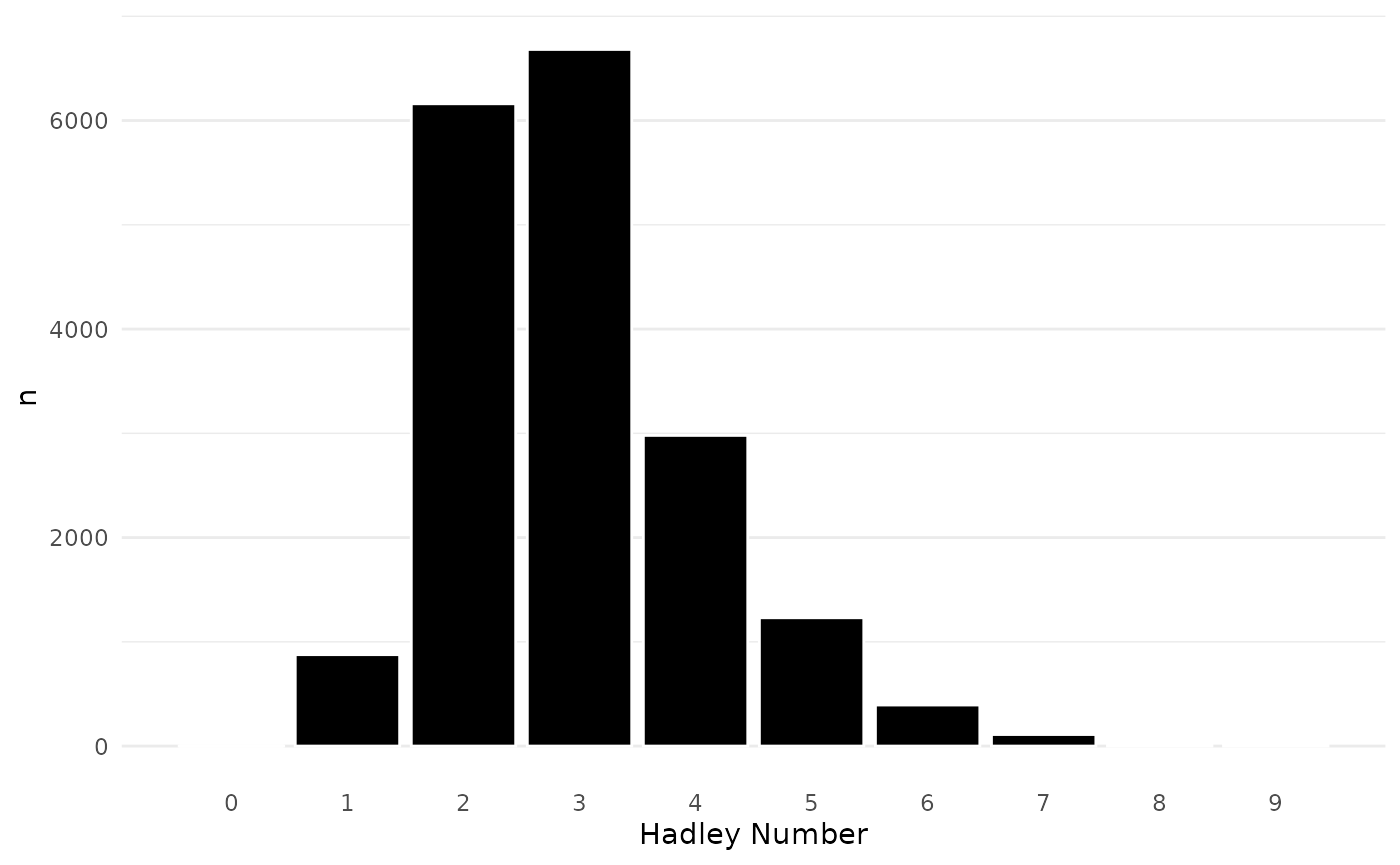
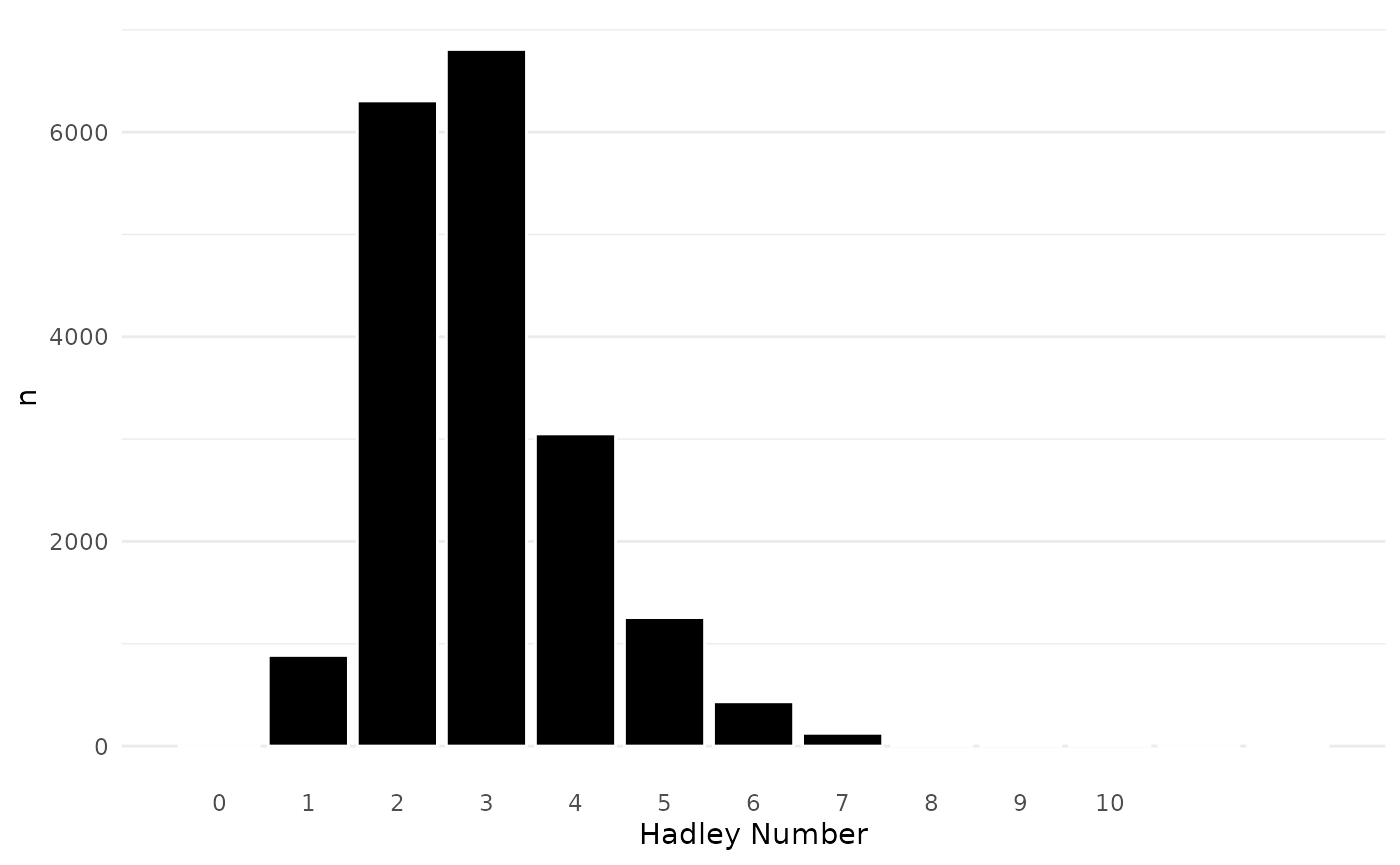
Deploying to gh-pages from @ Bisaloo/authoritative@ba7a91681df0eace3cf0e78e8ec6dfd6ce44fa3e 🚀

diff --git a/articles/six-degrees-replication.html b/articles/six-degrees-replication.html
@@ -84,8 +84,8 @@ degrees of Hadley Wickham: The CRAN co-authorship network”</a> using the
 <span><span class="kw"><a href="https://rdrr.io/r/base/library.html" class="external-link">library</a></span><span class="op">(</span><span class="va"><a href="https://tidyverse.tidyverse.org" class="external-link">tidyverse</a></span><span class="op">)</span></span>
 <span><span class="co">#&gt; ── <span style="font-weight: bold;">Attaching core tidyverse packages</span> ──────────────────────── tidyverse 2.0.0 ──</span></span>
 <span><span class="co">#&gt; <span style="color: #00BB00;">✔</span> <span style="color: #0000BB;">dplyr    </span> 1.1.4     <span style="color: #00BB00;">✔</span> <span style="color: #0000BB;">readr    </span> 2.1.5</span></span>
-<span><span class="co">#&gt; <span style="color: #00BB00;">✔</span> <span style="color: #0000BB;">forcats  </span> 1.0.0     <span style="color: #00BB00;">✔</span> <span style="color: #0000BB;">stringr  </span> 1.5.1</span></span>
-<span><span class="co">#&gt; <span style="color: #00BB00;">✔</span> <span style="color: #0000BB;">ggplot2  </span> 3.5.2     <span style="color: #00BB00;">✔</span> <span style="color: #0000BB;">tibble   </span> 3.3.0</span></span>
+<span><span class="co">#&gt; <span style="color: #00BB00;">✔</span> <span style="color: #0000BB;">forcats  </span> 1.0.1     <span style="color: #00BB00;">✔</span> <span style="color: #0000BB;">stringr  </span> 1.5.2</span></span>
+<span><span class="co">#&gt; <span style="color: #00BB00;">✔</span> <span style="color: #0000BB;">ggplot2  </span> 4.0.0     <span style="color: #00BB00;">✔</span> <span style="color: #0000BB;">tibble   </span> 3.3.0</span></span>
 <span><span class="co">#&gt; <span style="color: #00BB00;">✔</span> <span style="color: #0000BB;">lubridate</span> 1.9.4     <span style="color: #00BB00;">✔</span> <span style="color: #0000BB;">tidyr    </span> 1.3.1</span></span>
 <span><span class="co">#&gt; <span style="color: #00BB00;">✔</span> <span style="color: #0000BB;">purrr    </span> 1.1.0     </span></span>
 <span><span class="co">#&gt; ── <span style="font-weight: bold;">Conflicts</span> ────────────────────────────────────────── tidyverse_conflicts() ──</span></span>
@@ -157,39 +157,39 @@ degrees of Hadley Wickham: The CRAN co-authorship network”</a> using the
 <span><span class="va">B</span> <span class="op">&lt;-</span> <span class="fu">Matrix</span><span class="fu">::</span><span class="fu">t</span><span class="op">(</span><span class="va">A</span><span class="op">)</span> <span class="op"><a href="https://rdrr.io/r/base/matmult.html" class="external-link">%*%</a></span> <span class="va">A</span></span>
 <span><span class="va">auth_auth_net</span> <span class="op">&lt;-</span> <span class="fu"><a href="https://r.igraph.org/reference/graph_from_adjacency_matrix.html" class="external-link">graph_from_adjacency_matrix</a></span><span class="op">(</span><span class="va">B</span>, <span class="st">"undirected"</span>, diag <span class="op">=</span> <span class="cn">FALSE</span>, weighted <span class="op">=</span> <span class="cn">TRUE</span><span class="op">)</span></span>
 <span><span class="va">auth_auth_net</span></span>
-<span><span class="co">#&gt; IGRAPH 51de6b0 UNW- 29486 167611 -- </span></span>
+<span><span class="co">#&gt; IGRAPH 5c4ae5d UNW- 30141 169777 -- </span></span>
 <span><span class="co">#&gt; + attr: name (v/c), weight (e/n)</span></span>
-<span><span class="co">#&gt; + edges from 51de6b0 (vertex names):</span></span>
-<span><span class="co">#&gt;  [1] Martin Bladt    --Christian Furrer    Martin Bladt    --Alexander J Mcneil </span></span>
-<span><span class="co">#&gt;  [3] Martin Bladt    --Jorge Yslas         Martin Bladt    --Alaric Muller      </span></span>
-<span><span class="co">#&gt;  [5] Paul R Rosenbaum--Dylan Small         Paul R Rosenbaum--Ruth Heller        </span></span>
-<span><span class="co">#&gt;  [7] Paul R Rosenbaum--Marieke Stolte      Paul R Rosenbaum--Luke Miratrix      </span></span>
-<span><span class="co">#&gt;  [9] Paul R Rosenbaum--Luke Keele          Paul R Rosenbaum--Sam Pimentel       </span></span>
-<span><span class="co">#&gt; [11] Sigbert Klinke  --Jaroslav Myslivec   Sigbert Klinke  --Robert King        </span></span>
-<span><span class="co">#&gt; [13] Sigbert Klinke  --Benjamin Dean       Sigbert Klinke  --Paul Van Staden    </span></span>
-<span><span class="co">#&gt; [15] Sigbert Klinke  --Jekaterina Zukovska</span></span>
+<span><span class="co">#&gt; + edges from 5c4ae5d (vertex names):</span></span>
+<span><span class="co">#&gt;  [1] Martin Bladt    --Christian Furrer        </span></span>
+<span><span class="co">#&gt;  [2] Martin Bladt    --Alexander J Mcneil      </span></span>
+<span><span class="co">#&gt;  [3] Martin Bladt    --Jorge Yslas             </span></span>
+<span><span class="co">#&gt;  [4] Martin Bladt    --Alaric Muller           </span></span>
+<span><span class="co">#&gt;  [5] Paul R Rosenbaum--Dylan Small             </span></span>
+<span><span class="co">#&gt;  [6] Paul R Rosenbaum--Ruth Heller             </span></span>
+<span><span class="co">#&gt;  [7] Paul R Rosenbaum--Marieke Stolte          </span></span>
+<span><span class="co">#&gt;  [8] Paul R Rosenbaum--Luke Miratrix           </span></span>
 <span><span class="co">#&gt; + ... omitted several edges</span></span></code></pre></div>
 <div class="sourceCode" id="cb5"><pre class="downlit sourceCode r">
 <code class="sourceCode R"><span><span class="va">comps_cran</span> <span class="op">&lt;-</span> <span class="fu"><a href="https://r.igraph.org/reference/components.html" class="external-link">components</a></span><span class="op">(</span><span class="va">auth_auth_net</span><span class="op">)</span></span>
 <span><span class="va">comps_cran</span><span class="op">$</span><span class="va">no</span></span>
-<span><span class="co">#&gt; [1] 4374</span></span></code></pre></div>
+<span><span class="co">#&gt; [1] 4492</span></span></code></pre></div>
 <div class="sourceCode" id="cb6"><pre class="downlit sourceCode r">
 <code class="sourceCode R"><span><span class="va">auth_auth_net_largest</span> <span class="op">&lt;-</span> <span class="fu"><a href="https://r.igraph.org/reference/components.html" class="external-link">largest_component</a></span><span class="op">(</span><span class="va">auth_auth_net</span><span class="op">)</span></span>
 <span><span class="va">auth_auth_net_largest</span></span>
-<span><span class="co">#&gt; IGRAPH dc9e2a8 UNW- 18454 152313 -- </span></span>
+<span><span class="co">#&gt; IGRAPH 1eaac9b UNW- 18895 154353 -- </span></span>
 <span><span class="co">#&gt; + attr: name (v/c), weight (e/n)</span></span>
-<span><span class="co">#&gt; + edges from dc9e2a8 (vertex names):</span></span>
-<span><span class="co">#&gt;  [1] Martin Bladt    --Christian Furrer    Martin Bladt    --Alexander J Mcneil </span></span>
-<span><span class="co">#&gt;  [3] Martin Bladt    --Jorge Yslas         Martin Bladt    --Alaric Muller      </span></span>
-<span><span class="co">#&gt;  [5] Paul R Rosenbaum--Dylan Small         Paul R Rosenbaum--Ruth Heller        </span></span>
-<span><span class="co">#&gt;  [7] Paul R Rosenbaum--Marieke Stolte      Paul R Rosenbaum--Luke Miratrix      </span></span>
-<span><span class="co">#&gt;  [9] Paul R Rosenbaum--Luke Keele          Paul R Rosenbaum--Sam Pimentel       </span></span>
-<span><span class="co">#&gt; [11] Sigbert Klinke  --Jaroslav Myslivec   Sigbert Klinke  --Robert King        </span></span>
-<span><span class="co">#&gt; [13] Sigbert Klinke  --Benjamin Dean       Sigbert Klinke  --Paul Van Staden    </span></span>
-<span><span class="co">#&gt; [15] Sigbert Klinke  --Jekaterina Zukovska</span></span>
+<span><span class="co">#&gt; + edges from 1eaac9b (vertex names):</span></span>
+<span><span class="co">#&gt;  [1] Martin Bladt    --Christian Furrer        </span></span>
+<span><span class="co">#&gt;  [2] Martin Bladt    --Alexander J Mcneil      </span></span>
+<span><span class="co">#&gt;  [3] Martin Bladt    --Jorge Yslas             </span></span>
+<span><span class="co">#&gt;  [4] Martin Bladt    --Alaric Muller           </span></span>
+<span><span class="co">#&gt;  [5] Paul R Rosenbaum--Dylan Small             </span></span>
+<span><span class="co">#&gt;  [6] Paul R Rosenbaum--Ruth Heller             </span></span>
+<span><span class="co">#&gt;  [7] Paul R Rosenbaum--Marieke Stolte          </span></span>
+<span><span class="co">#&gt;  [8] Paul R Rosenbaum--Luke Miratrix           </span></span>
 <span><span class="co">#&gt; + ... omitted several edges</span></span></code></pre></div>
 <blockquote>
-<p>From the 29,486 recorded package authors, 18,454 (62.59%) are part of
+<p>From the 30,141 recorded package authors, 18,895 (62.69%) are part of
 the largest connected component. All subsequent analyses will be done
 with this network.</p>
 </blockquote>
@@ -197,10 +197,10 @@ with this network.</p>
 <code class="sourceCode R"><span><span class="va">emax_who</span> <span class="op">&lt;-</span> <span class="fu"><a href="https://r.igraph.org/reference/ends.html" class="external-link">ends</a></span><span class="op">(</span><span class="va">auth_auth_net_largest</span>, <span class="fu"><a href="https://r.igraph.org/reference/E.html" class="external-link">E</a></span><span class="op">(</span><span class="va">auth_auth_net_largest</span><span class="op">)</span><span class="op">[</span><span class="fu"><a href="https://rdrr.io/r/base/which.min.html" class="external-link">which.max</a></span><span class="op">(</span><span class="fu"><a href="https://r.igraph.org/reference/E.html" class="external-link">E</a></span><span class="op">(</span><span class="va">auth_auth_net_largest</span><span class="op">)</span><span class="op">$</span><span class="va">weight</span><span class="op">)</span><span class="op">]</span><span class="op">)</span><span class="op">[</span><span class="fl">1</span>, <span class="op">]</span></span>
 <span><span class="va">emax</span> <span class="op">&lt;-</span> <span class="fu"><a href="https://rdrr.io/r/base/Extremes.html" class="external-link">max</a></span><span class="op">(</span><span class="fu"><a href="https://r.igraph.org/reference/E.html" class="external-link">E</a></span><span class="op">(</span><span class="va">auth_auth_net_largest</span><span class="op">)</span><span class="op">$</span><span class="va">weight</span><span class="op">)</span></span></code></pre></div>
 <blockquote>
-<p>On average, every developer in the largest component has 16.51
+<p>On average, every developer in the largest component has 16.34
 co-authors. The median is 7. The two individuals who coauthored the most
-packages together (66), are Posit Software Pbc and Hadley Wickham. The
-person with the most co-authors (877) is Hadley Wickham. What a great
+packages together (70), are Posit Software Pbc and Hadley Wickham. The
+person with the most co-authors (886) is Hadley Wickham. What a great
 transition for the next section.</p>
 </blockquote>
 <div class="sourceCode" id="cb8"><pre class="downlit sourceCode r">
@@ -236,43 +236,43 @@ transition for the next section.</p>
 <tbody>
 <tr class="odd">
 <td align="left">Hadley Wickham</td>
-<td align="right">2.958925</td>
+<td align="right">2.971792</td>
 </tr>
 <tr class="even">
 <td align="left">Dirk Eddelbuettel</td>
-<td align="right">3.060908</td>
+<td align="right">3.082191</td>
 </tr>
 <tr class="odd">
 <td align="left">Ben Bolker</td>
-<td align="right">3.092934</td>
+<td align="right">3.112358</td>
 </tr>
 <tr class="even">
 <td align="left">Posit Software Pbc</td>
-<td align="right">3.104693</td>
+<td align="right">3.119926</td>
 </tr>
 <tr class="odd">
 <td align="left">Martin Maechler</td>
-<td align="right">3.137423</td>
+<td align="right">3.152739</td>
 </tr>
 <tr class="even">
 <td align="left">Jim Hester</td>
-<td align="right">3.140349</td>
+<td align="right">3.163324</td>
 </tr>
 <tr class="odd">
 <td align="left">Kevin Ushey</td>
-<td align="right">3.149507</td>
+<td align="right">3.167346</td>
 </tr>
 <tr class="even">
 <td align="left">Romain Francois</td>
-<td align="right">3.155088</td>
+<td align="right">3.175337</td>
 </tr>
 <tr class="odd">
 <td align="left">Brian D Ripley</td>
-<td align="right">3.191774</td>
+<td align="right">3.207039</td>
 </tr>
 <tr class="even">
-<td align="left">Yihui Xie</td>
-<td align="right">3.205972</td>
+<td align="left">R Core Team</td>
+<td align="right">3.230008</td>
 </tr>
 </tbody>
 </table></main>
